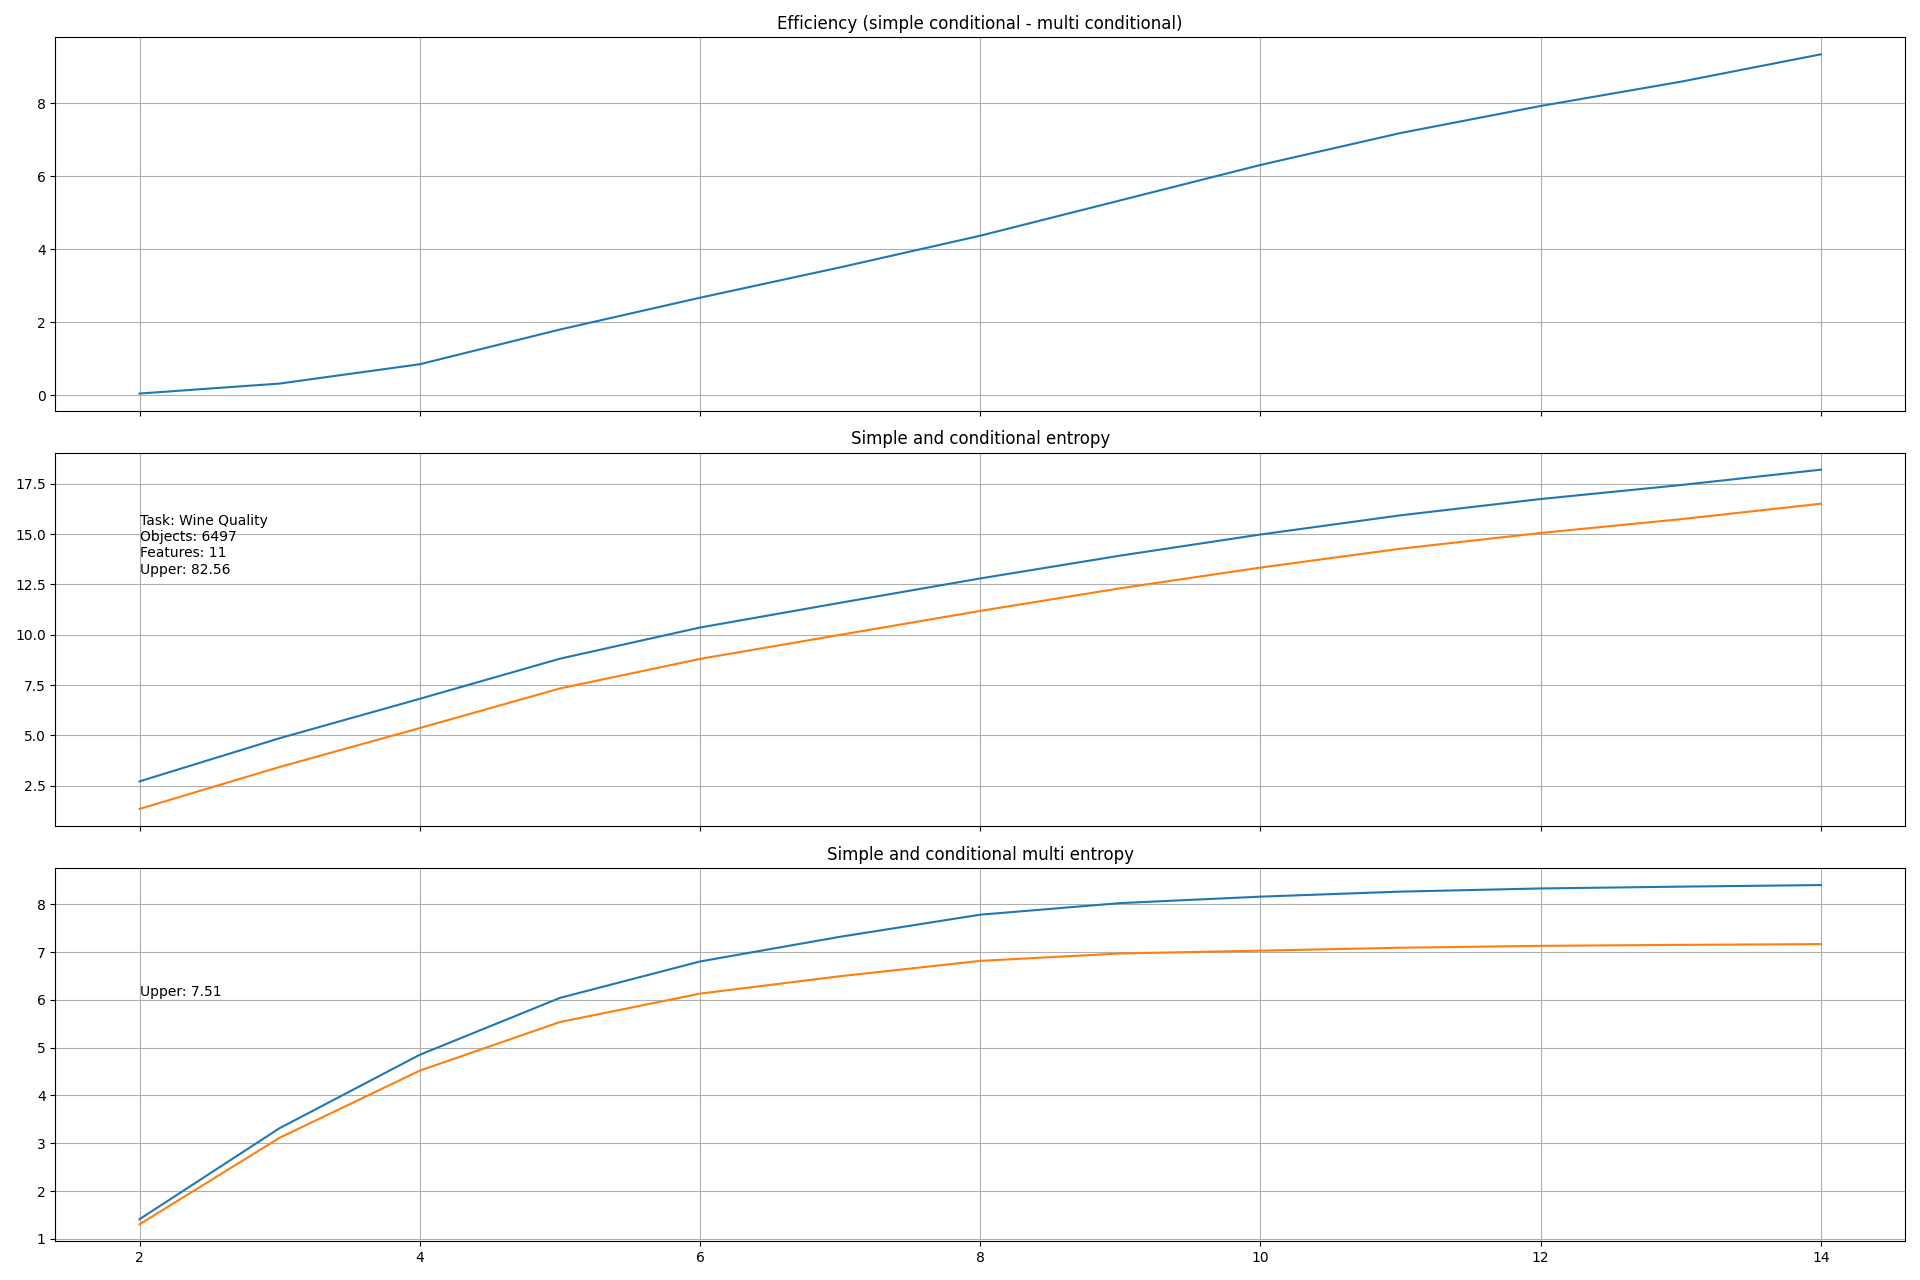
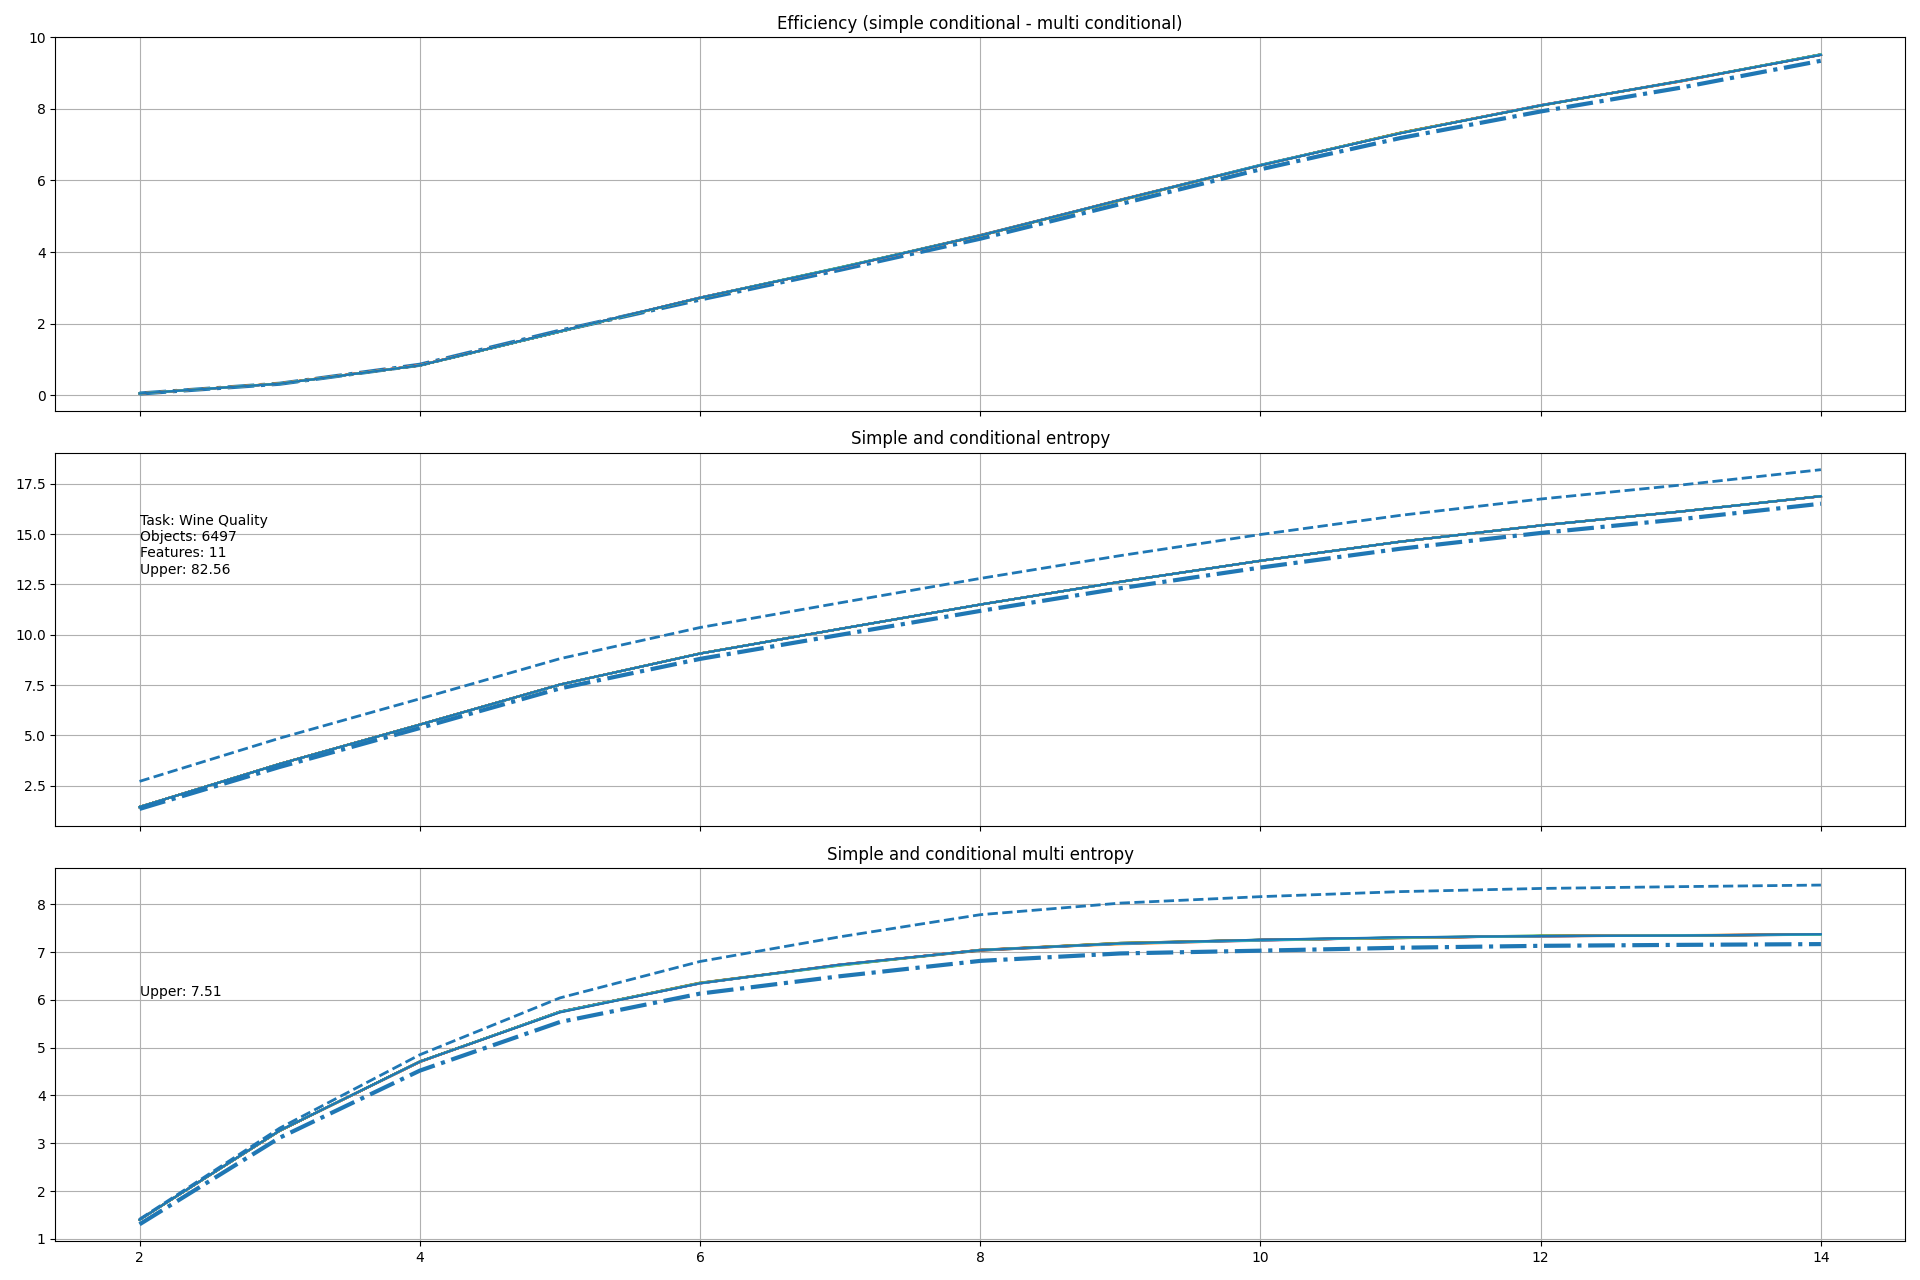
added entropy calculation

diff --git a/calcEntropy.py b/calcEntropy.py
@@ -3,9 +3,15 @@ import math
 import numpy as np
 import matplotlib.pyplot as plt
 from scipy.stats import iqr
+from sklearn.preprocessing import LabelEncoder
 
 import scipy
 from scipy.stats import entropy
+from numpy import loadtxt
+from xgboost import XGBClassifier
+from sklearn.model_selection import train_test_split
+from sklearn.metrics import accuracy_score
+from sklearn.linear_model import LogisticRegression
 
 def calcAndVisualize(dataSet, cl, binsPerFeature, taskName):
     """
@@ -111,7 +117,28 @@ def getOptimalBinsCount(dataSet):
             bins[i] = math.ceil((max(dataSet[:, i]) - min(dataSet[:, i])) / width)
     return bins
 
+
+def getPermutation(target):
+
+    target = np.random.permutation(target)
+
+    return getClassesIndex(target)
+
+def getClassesIndex(target):
+    entries = np.unique(target)
+
+    cl = []
+    for iClass in np.arange(0, len(entries)):
+        cl.append(np.where(target == entries[iClass])[0])
+
+    return cl
+
 def calculateAndVisualizeSeveralEntropies(dataSet, target, taskName):
+
+    enc = LabelEncoder()
+    target = enc.fit_transform(target)
+
+    permutations = 20
     print('Starting task: {0}'.format(taskName))
 
     nFeatures = dataSet.shape[1]
@@ -126,11 +153,13 @@ def calculateAndVisualizeSeveralEntropies(dataSet, target, taskName):
     upperBins = getOptimalBinsCount(dataSet)
     bins = np.arange(2, max(upperBins) + 1)
 
-    efficiency = np.zeros(len(bins), dtype=float)
     simple = np.zeros(len(bins), dtype=float)
-    conditional = np.zeros(len(bins), dtype=float)
+    conditional = np.zeros((len(bins), permutations + 1), dtype=float)
     multiEntropy = np.zeros(len(bins), dtype=float)
-    multiConditionalEntropy = np.zeros(len(bins), dtype=float)
+    multiConditionalEntropy = np.zeros((len(bins), permutations + 1), dtype=float)
+    efficiency = np.zeros((len(bins), permutations + 1), dtype=float)
+    logitResults = np.zeros(len(bins), dtype=float)
+    xgboostResults = np.zeros(len(bins), dtype=float)
 
     ct = 0.0
     for iClass in np.arange(len(cl)):
@@ -152,80 +181,96 @@ def calculateAndVisualizeSeveralEntropies(dataSet, target, taskName):
         simpleEntropy[nFeatures] = entropy(counts / nObjects)
 
         simple[iBins] = sum(simpleEntropy)
-        conditional[iBins] = calcConditionalEntropy(dataSet, objectBins, cl)
         multiEntropy[iBins] = calcMultiVarianceEntropy(dataSet, objectBins)
-        multiConditionalEntropy[iBins] = calcConditionalMultiVarianceEntropy(dataSet, objectBins, cl)
-        efficiency[iBins] = conditional[iBins] - multiConditionalEntropy[iBins]
 
-        if abs(multiConditionalEntropy[iBins]/ct - 1) < 0.01:
+        conditional[iBins, 0] = calcConditionalEntropy(dataSet, objectBins, cl)
+        multiConditionalEntropy[iBins, 0] = calcConditionalMultiVarianceEntropy(dataSet, objectBins, cl)
+        efficiency[iBins, 0] = conditional[iBins, 0] - multiConditionalEntropy[iBins, 0]
+
+        for iPermutation in np.arange(1, permutations + 1):
+            clPermutation = getPermutation(target)
+
+            conditional[iBins, iPermutation] = calcConditionalEntropy(dataSet, objectBins, clPermutation)
+            multiConditionalEntropy[iBins, iPermutation] = calcConditionalMultiVarianceEntropy(dataSet, objectBins, clPermutation)
+            efficiency[iBins, iPermutation] = conditional[iBins, iPermutation] - multiConditionalEntropy[iBins, iPermutation]
+
+        #logregression
+        seed = 7
+        test_size = 0.25
+        X_train, X_test, y_train, y_test = train_test_split(dataSet, target, test_size=test_size, random_state=seed)
+        logit = LogisticRegression(random_state=0).fit(X_train, y_train)
+        regressionTarget = logit.predict(dataSet)
+        regressionClassesIndex = getClassesIndex(regressionTarget)
+
+        logitResults[iBins] = calcConditionalMultiVarianceEntropy(dataSet, objectBins, regressionClassesIndex)
+
+        #xgboost
+        seed = 7
+        test_size = 0.25
+        X_train, X_test, y_train, y_test = train_test_split(dataSet, target, test_size=test_size, random_state=seed)
+
+        model = XGBClassifier().fit(X_train, y_train)
+        xgBoostTarget = model.predict(dataSet)
+        xbBoostClassesIndex = getClassesIndex(xgBoostTarget)
+        xgboostResults[iBins] = calcConditionalMultiVarianceEntropy(dataSet, objectBins, xbBoostClassesIndex)
+
+        if abs(multiConditionalEntropy[iBins, 0]/ct - 1) < 0.01:
             break
 
-    idx = np.where(multiConditionalEntropy != 0)[0]
+    idx = np.where(multiConditionalEntropy[:, 0] != 0)[0]
 
     bins = bins[idx]
     simple = simple[idx]
-    conditional = conditional[idx]
     multiEntropy = multiEntropy[idx]
-    multiConditionalEntropy = multiConditionalEntropy[idx]
-    efficiency = efficiency[idx]
 
-    SaveEntropiesToFigure(bins, simple, conditional, multiEntropy, multiConditionalEntropy, efficiency, taskName, nObjects, nFeatures, ct)
+    conditional = conditional[idx, :]
+    multiConditionalEntropy = multiConditionalEntropy[idx, :]
+    efficiency = efficiency[idx, :]
+
+    logitResults = logitResults[idx]
+    xgboostResults = xgboostResults[idx]
+
+    mlResults = {'logit': logitResults, 'xgBoost': xgboostResults}
+
+    SaveEntropiesToFigure(bins, simple, conditional, multiEntropy, multiConditionalEntropy, efficiency, mlResults, taskName, nObjects, nFeatures, ct)
     calcAndVisualize(dataSet, cl, upperBins, taskName)
 
     return
 
-def SaveEntropiesToFigure(bins, simple, conditional, multiEntropy, multiConditionalEntropy, efficiency, taskName, nObjects, nFeatures, ct):
+def SaveEntropiesToFigure(bins, simple, conditional, multiEntropy, multiConditionalEntropy, efficiency, mlResults, taskName, nObjects, nFeatures, ct):
 
     plt.figure()
     # binToDisplay = max(bins)
     px = 1 / plt.rcParams['figure.dpi']
     fig, ax = plt.subplots(3, 1, sharex=True, tight_layout=True, figsize=(1920 * px, 1280 * px))
 
-    ax[0].plot(bins, efficiency)
+    permutations = efficiency.shape[1]
+
+    ax[0].plot(bins, efficiency[:, 0], 'C0-.', linewidth=3)
+    for iPermutation in np.arange(1, permutations):
+        color = 'C{0}'.format(iPermutation%10)
+        ax[0].plot(bins, efficiency[:, iPermutation], color)
+        ax[1].plot(bins, conditional[:, iPermutation], color)
+        ax[2].plot(bins, multiConditionalEntropy[:, iPermutation], color)
+
+
     ax[0].title.set_text('Efficiency (simple conditional - multi conditional)')
     ax[0].grid()
 
-    # ct = 0.0
-    # for iClass in np.arange(len(cl)):
-    #    ct += -math.log(len(cl[iClass])/nObjects) * len(cl[iClass]) / nObjects
-
-    # ax[1].plot(bins, simple)
-    # ax[1].plot(bins, np.ones(len(bins)) * (math.log(nObjects) * nFeatures + ct))
-    # ax[1].plot(np.ones(len(bins)) * (binToDisplay), simple)
-    # ax[1].title.set_text('Simple entropy')
-
-    # ct = 0.0
-    # for iClass in np.arange(len(cl)):
-    #    ct += math.log(len(cl[iClass])) * len(cl[iClass]) / nObjects
-
-    # ax[2].plot(bins, conditional)
-    # ax[2].plot(bins, np.ones(len(bins)) * ct * nFeatures)
-    # ax[2].plot(np.ones(len(bins)) * (binToDisplay), conditional)
-    # ax[2].title.set_text('Simple conditional entropy')
-
-    # ax[3].plot(bins, multiEntropy)
-    # ax[3].plot(bins, np.ones(len(bins)) * math.log(nObjects))
-    # ax[3].plot(np.ones(len(bins)) * (binToDisplay), multiEntropy)
-    # ax[3].title.set_text('Multi entropy')
-
-    # ax[4].plot(bins, multiConditionalEntropy)
-    # ax[4].plot(bins, np.ones(len(bins)) * ct)
-    # ax[4].plot(np.ones(len(bins)) * (binToDisplay), multiConditionalEntropy)
-    # ax[4].title.set_text('Multi conditional')
-
-    ax[1].plot(bins, simple)
-    ax[1].plot(bins, conditional)
-    # ax[1].plot(np.ones(len(bins)) * (binToDisplay), simple)
-    # ax[1].plot(bins, np.ones(len(bins)) * ct * nFeatures)
+    ax[1].plot(bins, simple, 'C0--', linewidth=2)
+    ax[1].plot(bins, conditional[:, 0], 'C0-.', linewidth=3)
     ax[1].title.set_text('Simple and conditional entropy')
     ax[1].text(bins[0], 2 / 3 * max(simple) + 1 / 3 * simple[0],
                'Task: {0}\nObjects: {1}\nFeatures: {2}\nUpper: {3:3.2f}'.format(taskName, nObjects, nFeatures,                                                                                 ct * nFeatures))
     ax[1].grid()
 
-    ax[2].plot(bins, multiEntropy)
-    ax[2].plot(bins, multiConditionalEntropy)
-    # ax[2].plot(bins, np.ones(len(bins)) * ct)
-    # ax[2].plot(np.ones(len(bins)) * (binToDisplay), multiEntropy)
+    ax[2].plot(bins, multiEntropy, 'C0--', linewidth=2)
+    ax[2].plot(bins, multiConditionalEntropy[:, 0], 'C0-.', linewidth=3)
+
+    mlKeys = list(mlResults.keys())
+    for iKey in np.arange(len(mlKeys)):
+        ax[2].plot(bins, mlResults[mlKeys[iKey]], 'C0:', linewidth=2, label=mlKeys[iKey])
+
     ax[2].text(bins[0], 2 / 3 * max(multiEntropy) + 1 / 3 * multiEntropy[0], 'Upper: {0:3.2f}'.format(ct))
     ax[2].title.set_text('Simple and conditional multi entropy')
     ax[2].grid()

diff --git a/main.py b/main.py
@@ -40,7 +40,7 @@ def showCircles(elements):
 
 def showRandom(elements, features):
     dataSet = np.zeros((elements, features))
-    target = np.zeros(elements)
+    target = np.zeros(elements, dtype=int)
 
     for i in np.arange(elements):
         for f in np.arange(features):
